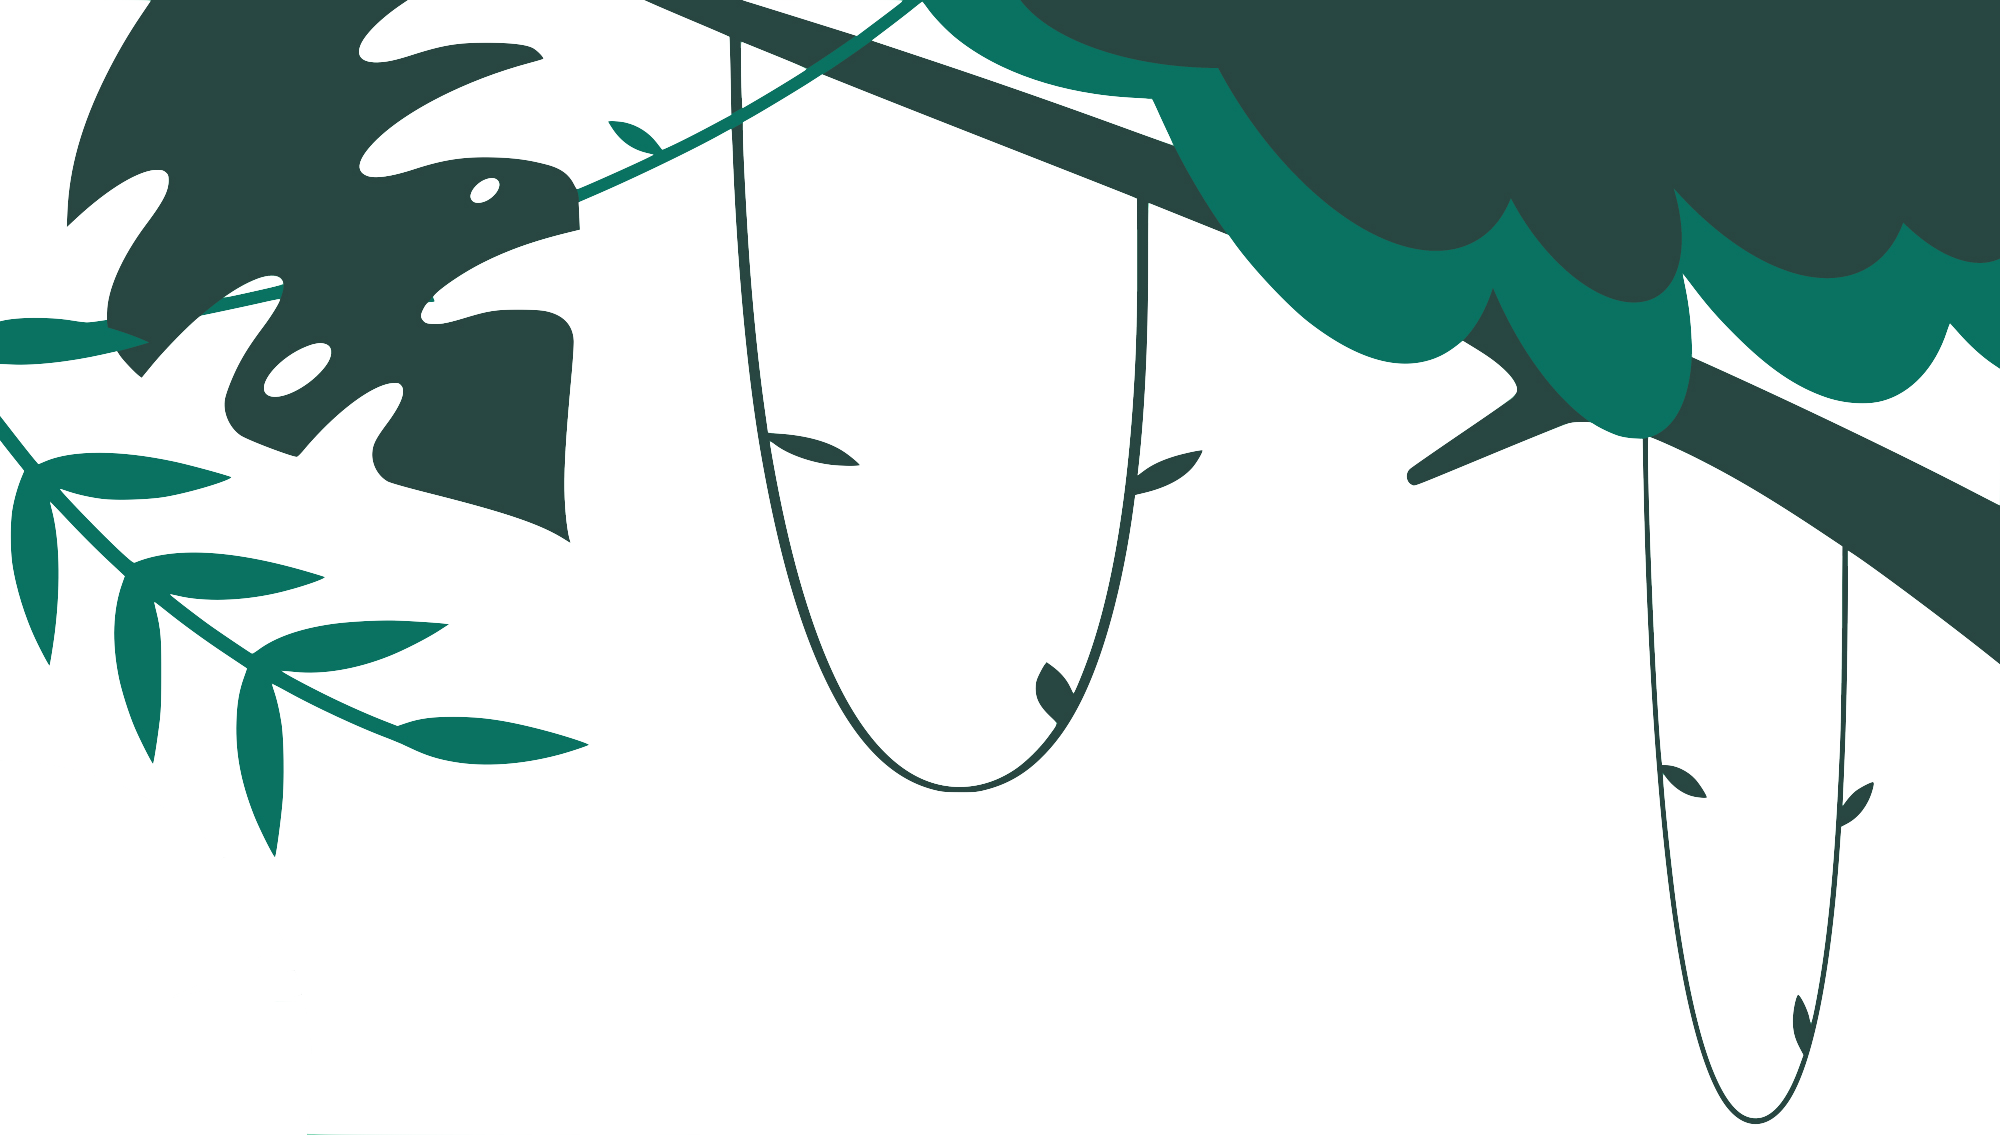
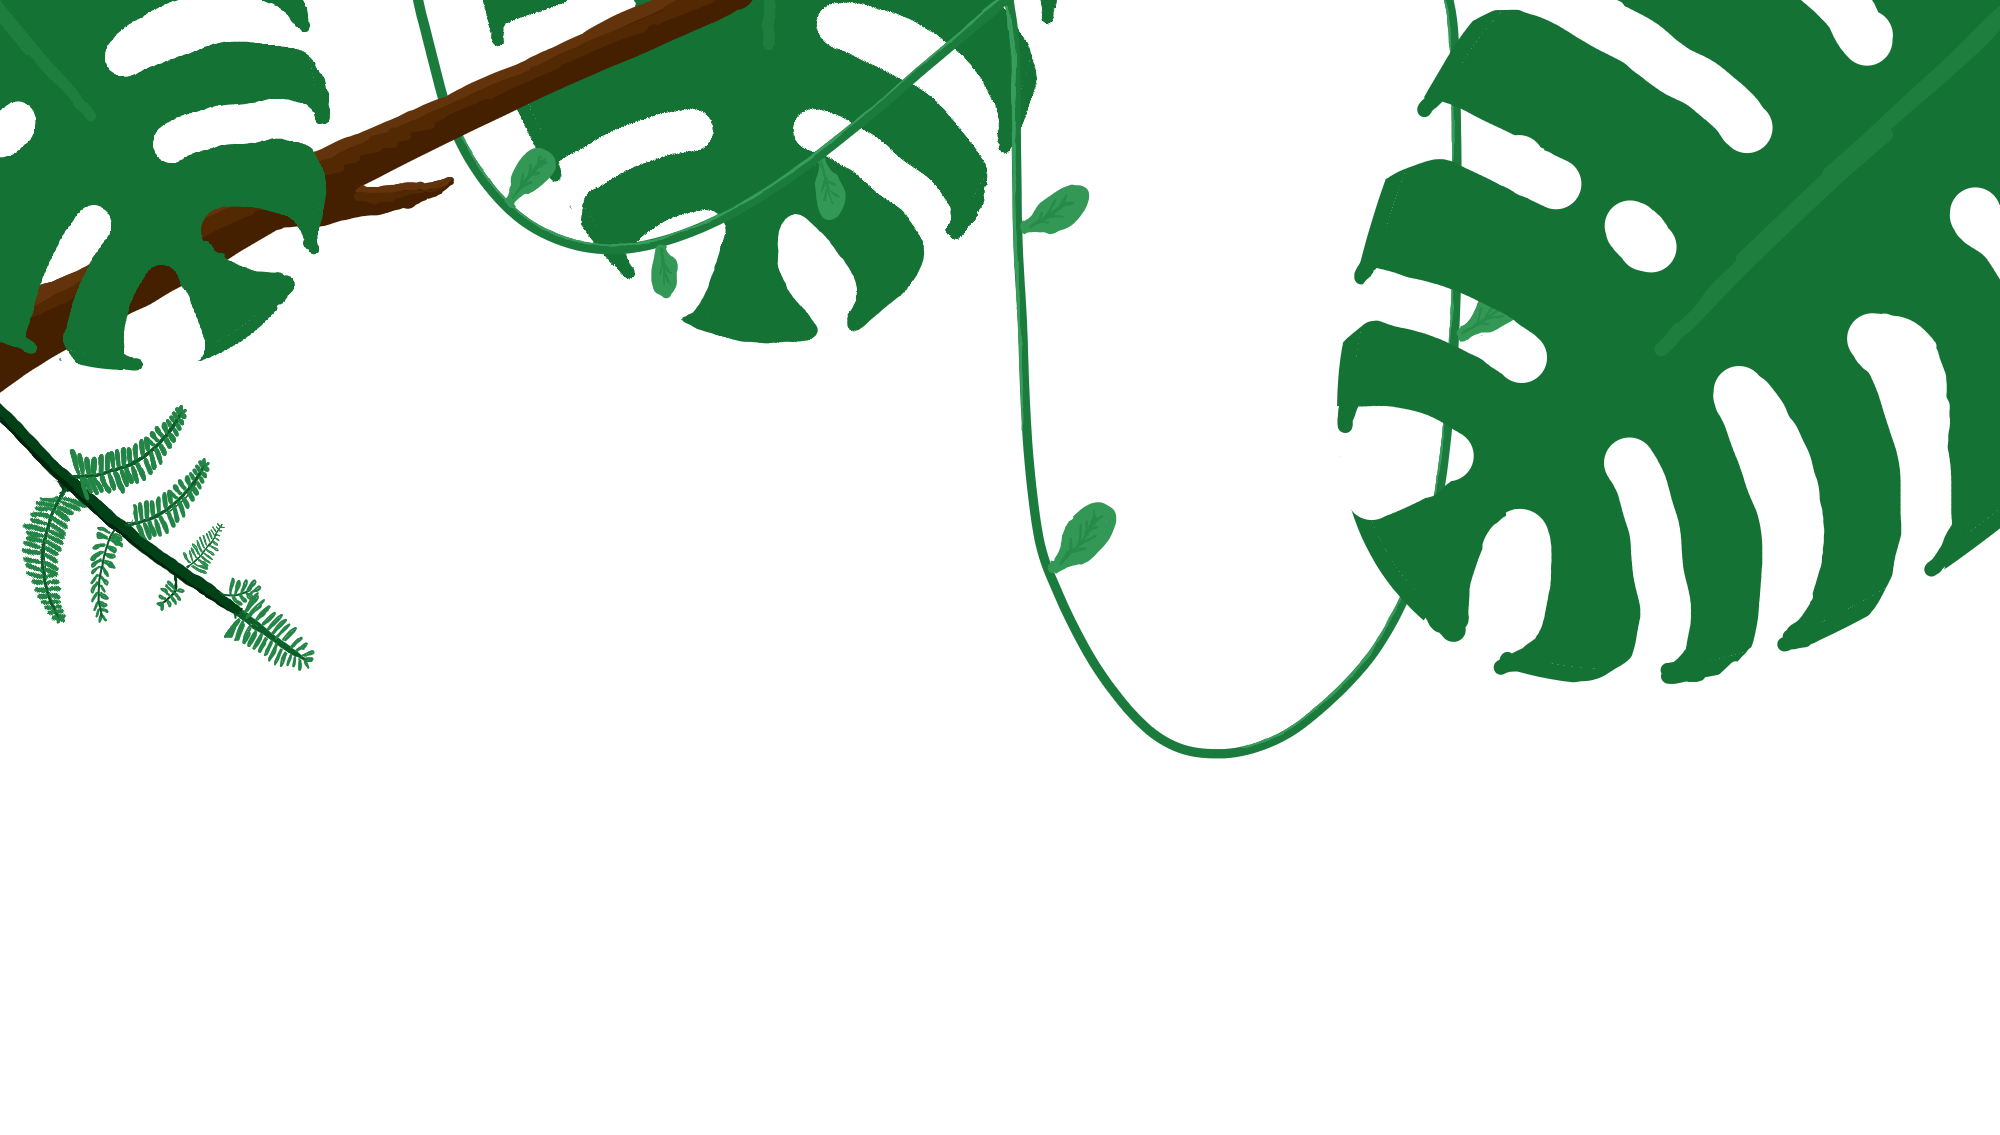
m :fire: added new jungle art

diff --git a/meditate_app/lib/controllers/user_controller.dart b/meditate_app/lib/controllers/user_controller.dart
@@ -468,7 +468,7 @@ class UserController extends GetxController {
       String cookies = cookie.getCookies();
       api.setCookies(cookies);
       databaseUser.value = await api.user.me();
-      syncData();
+      await syncData(); //TODO: adding await, lets see if this fixes it
     } catch (e, stackTrace) {
       logError(e.toString());
       logError(stackTrace.toString());
